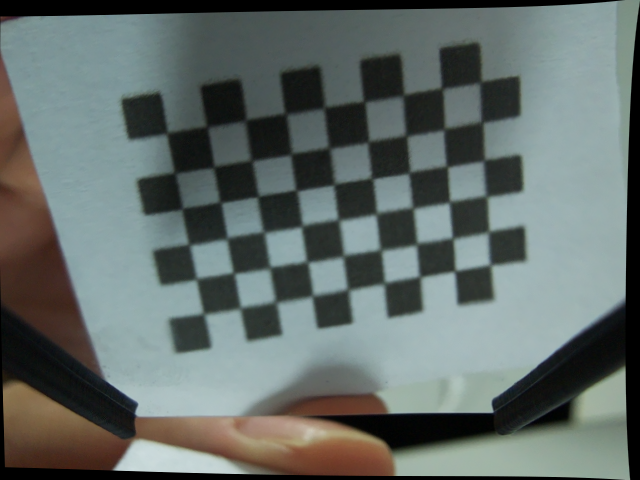
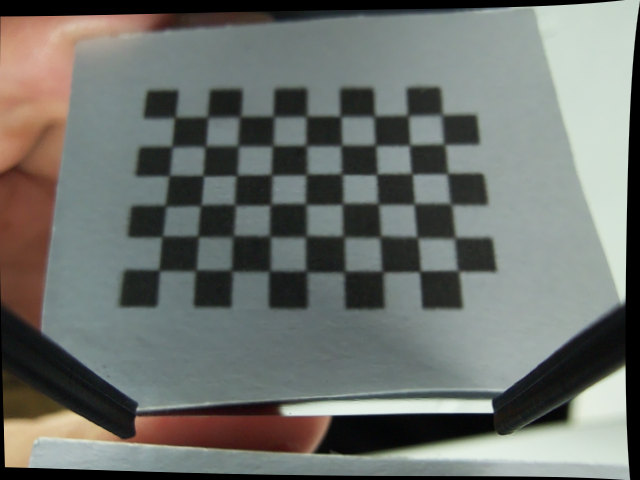
cali test

diff --git a/calibration.py b/calibration.py
@@ -43,7 +43,7 @@ np.save('dist_coeff_real.npy', dist)
 newcameramtx, roi = cv.getOptimalNewCameraMatrix(mtx, dist, (w, h), 0.9, (w, h))
 
 # 讀取待校正的圖像
-img = cv.imread('./calibration/fixed_cam/img2.png')
+img = cv.imread('./calibration/fixed_cam/img5.png')
 dst = cv.undistort(img, mtx, dist, None, newcameramtx)
 mean_error = 0
 for i in range(len(objpoints)):
